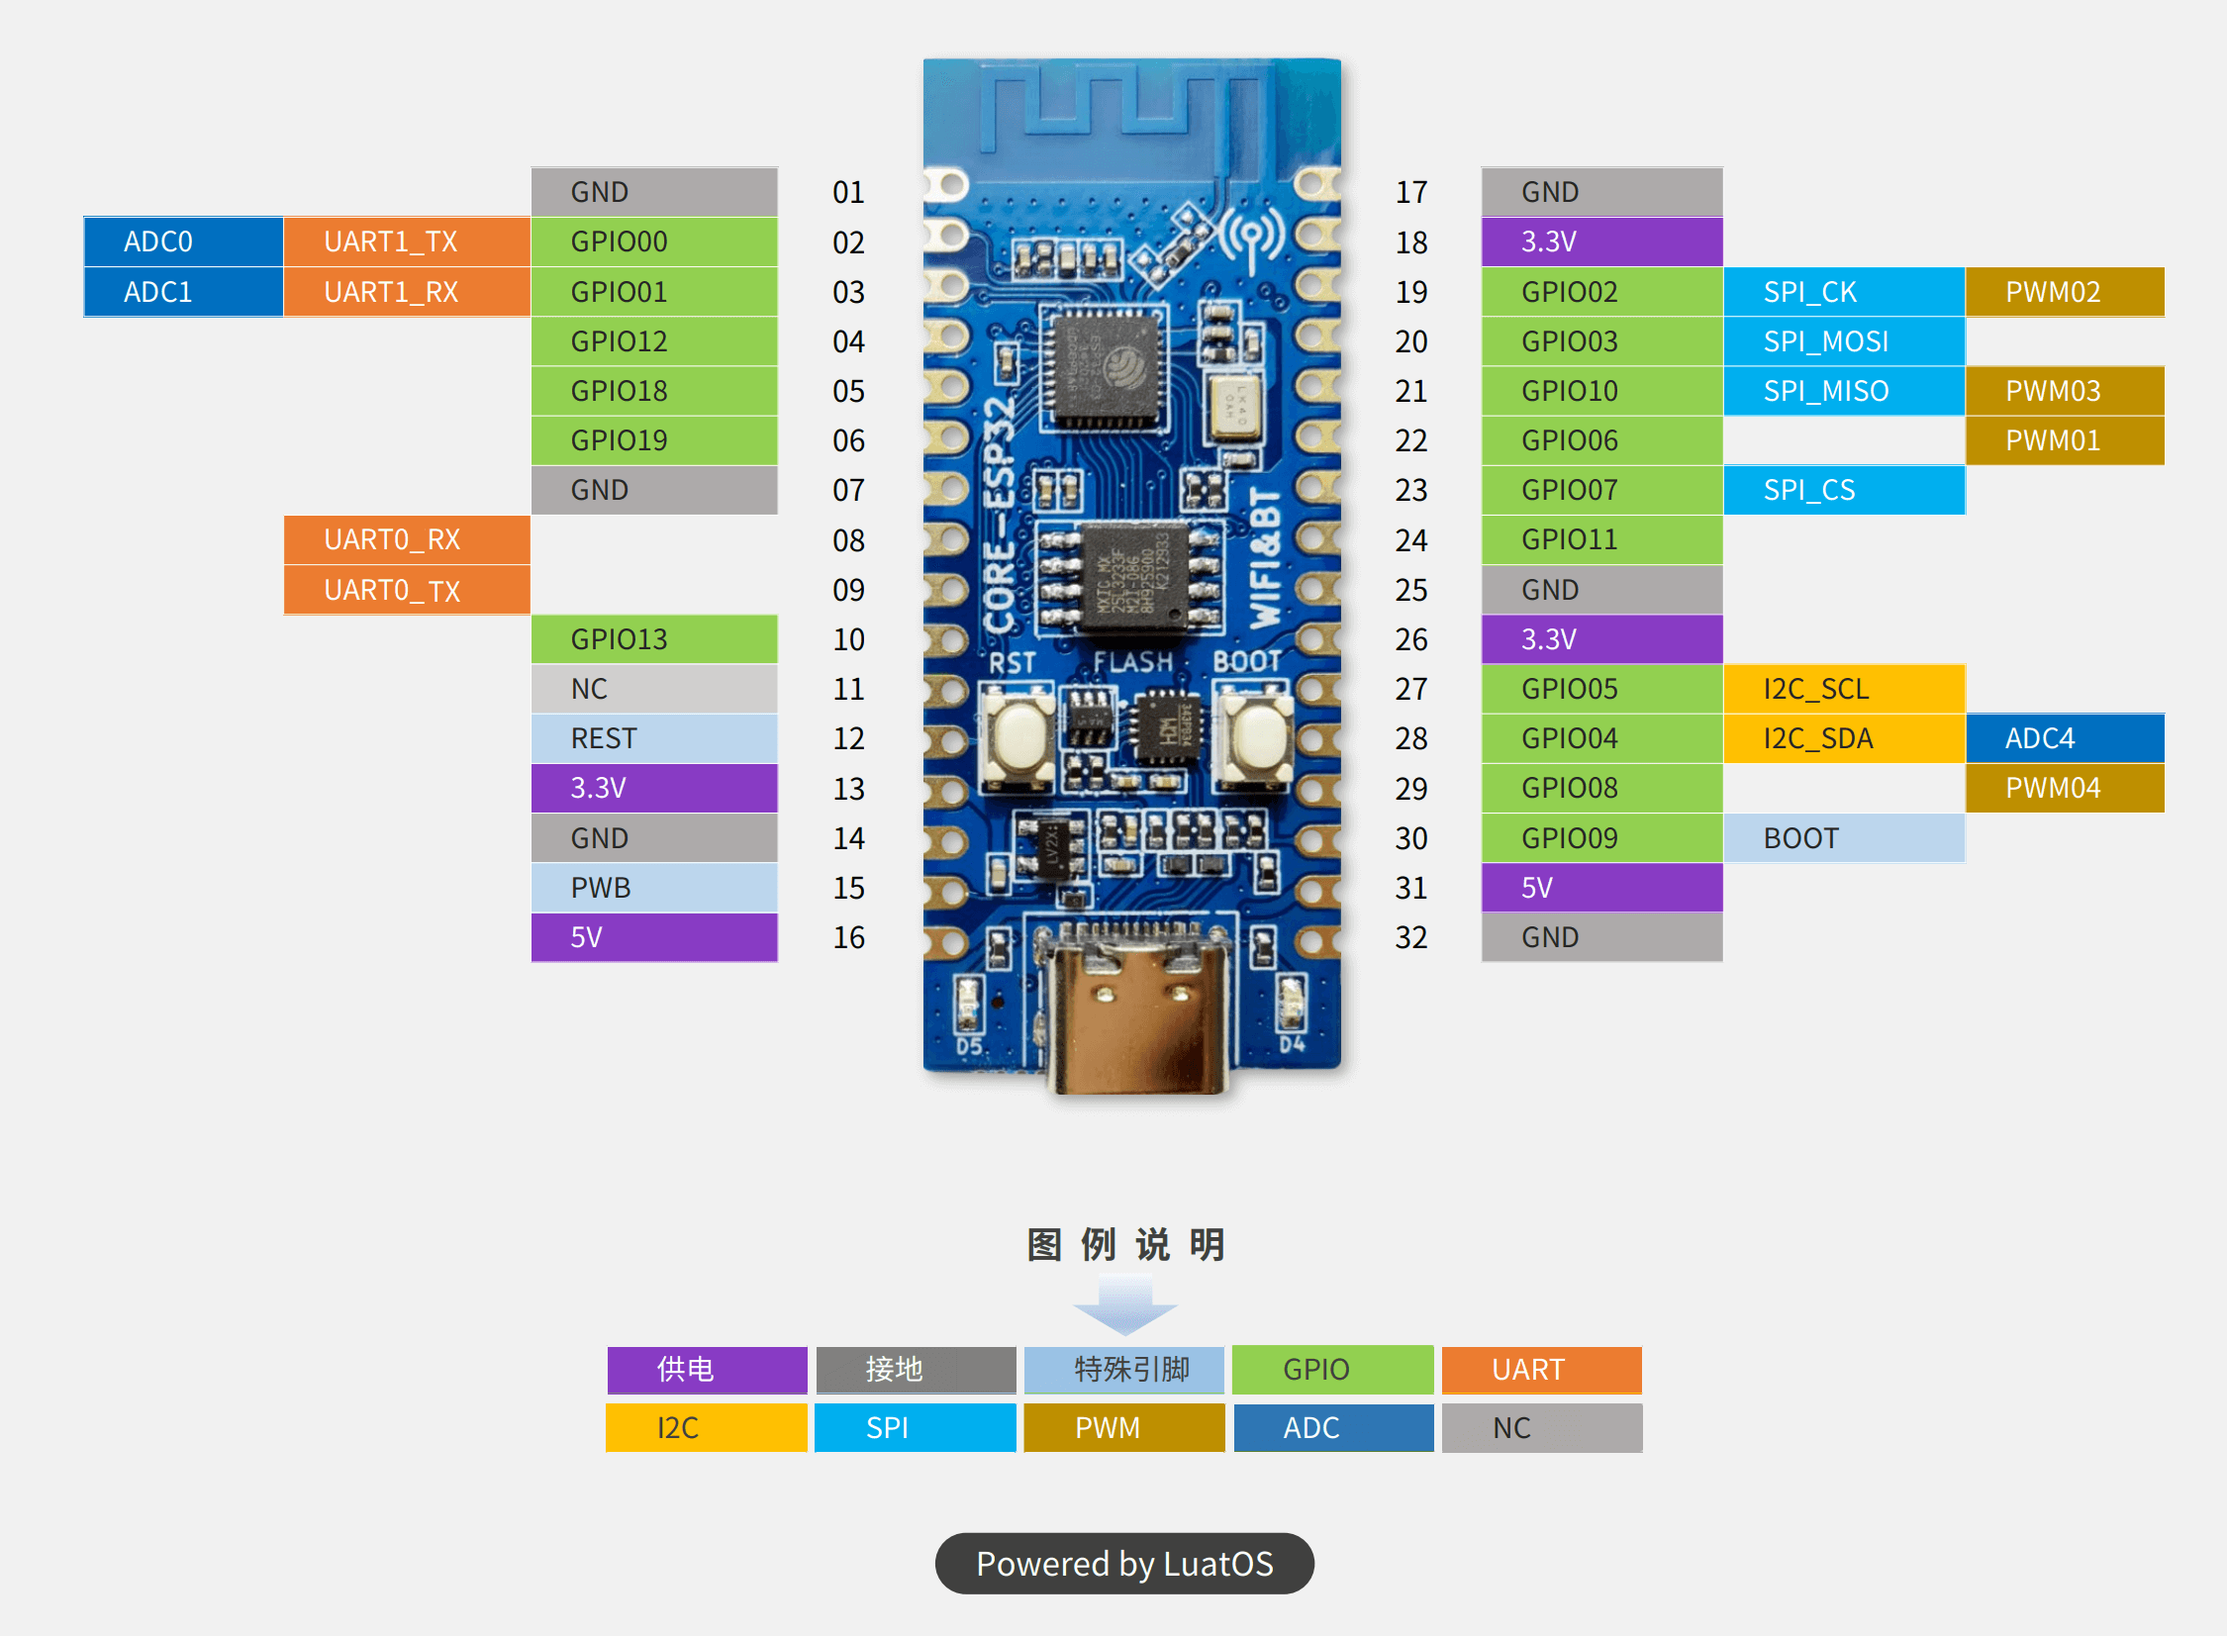
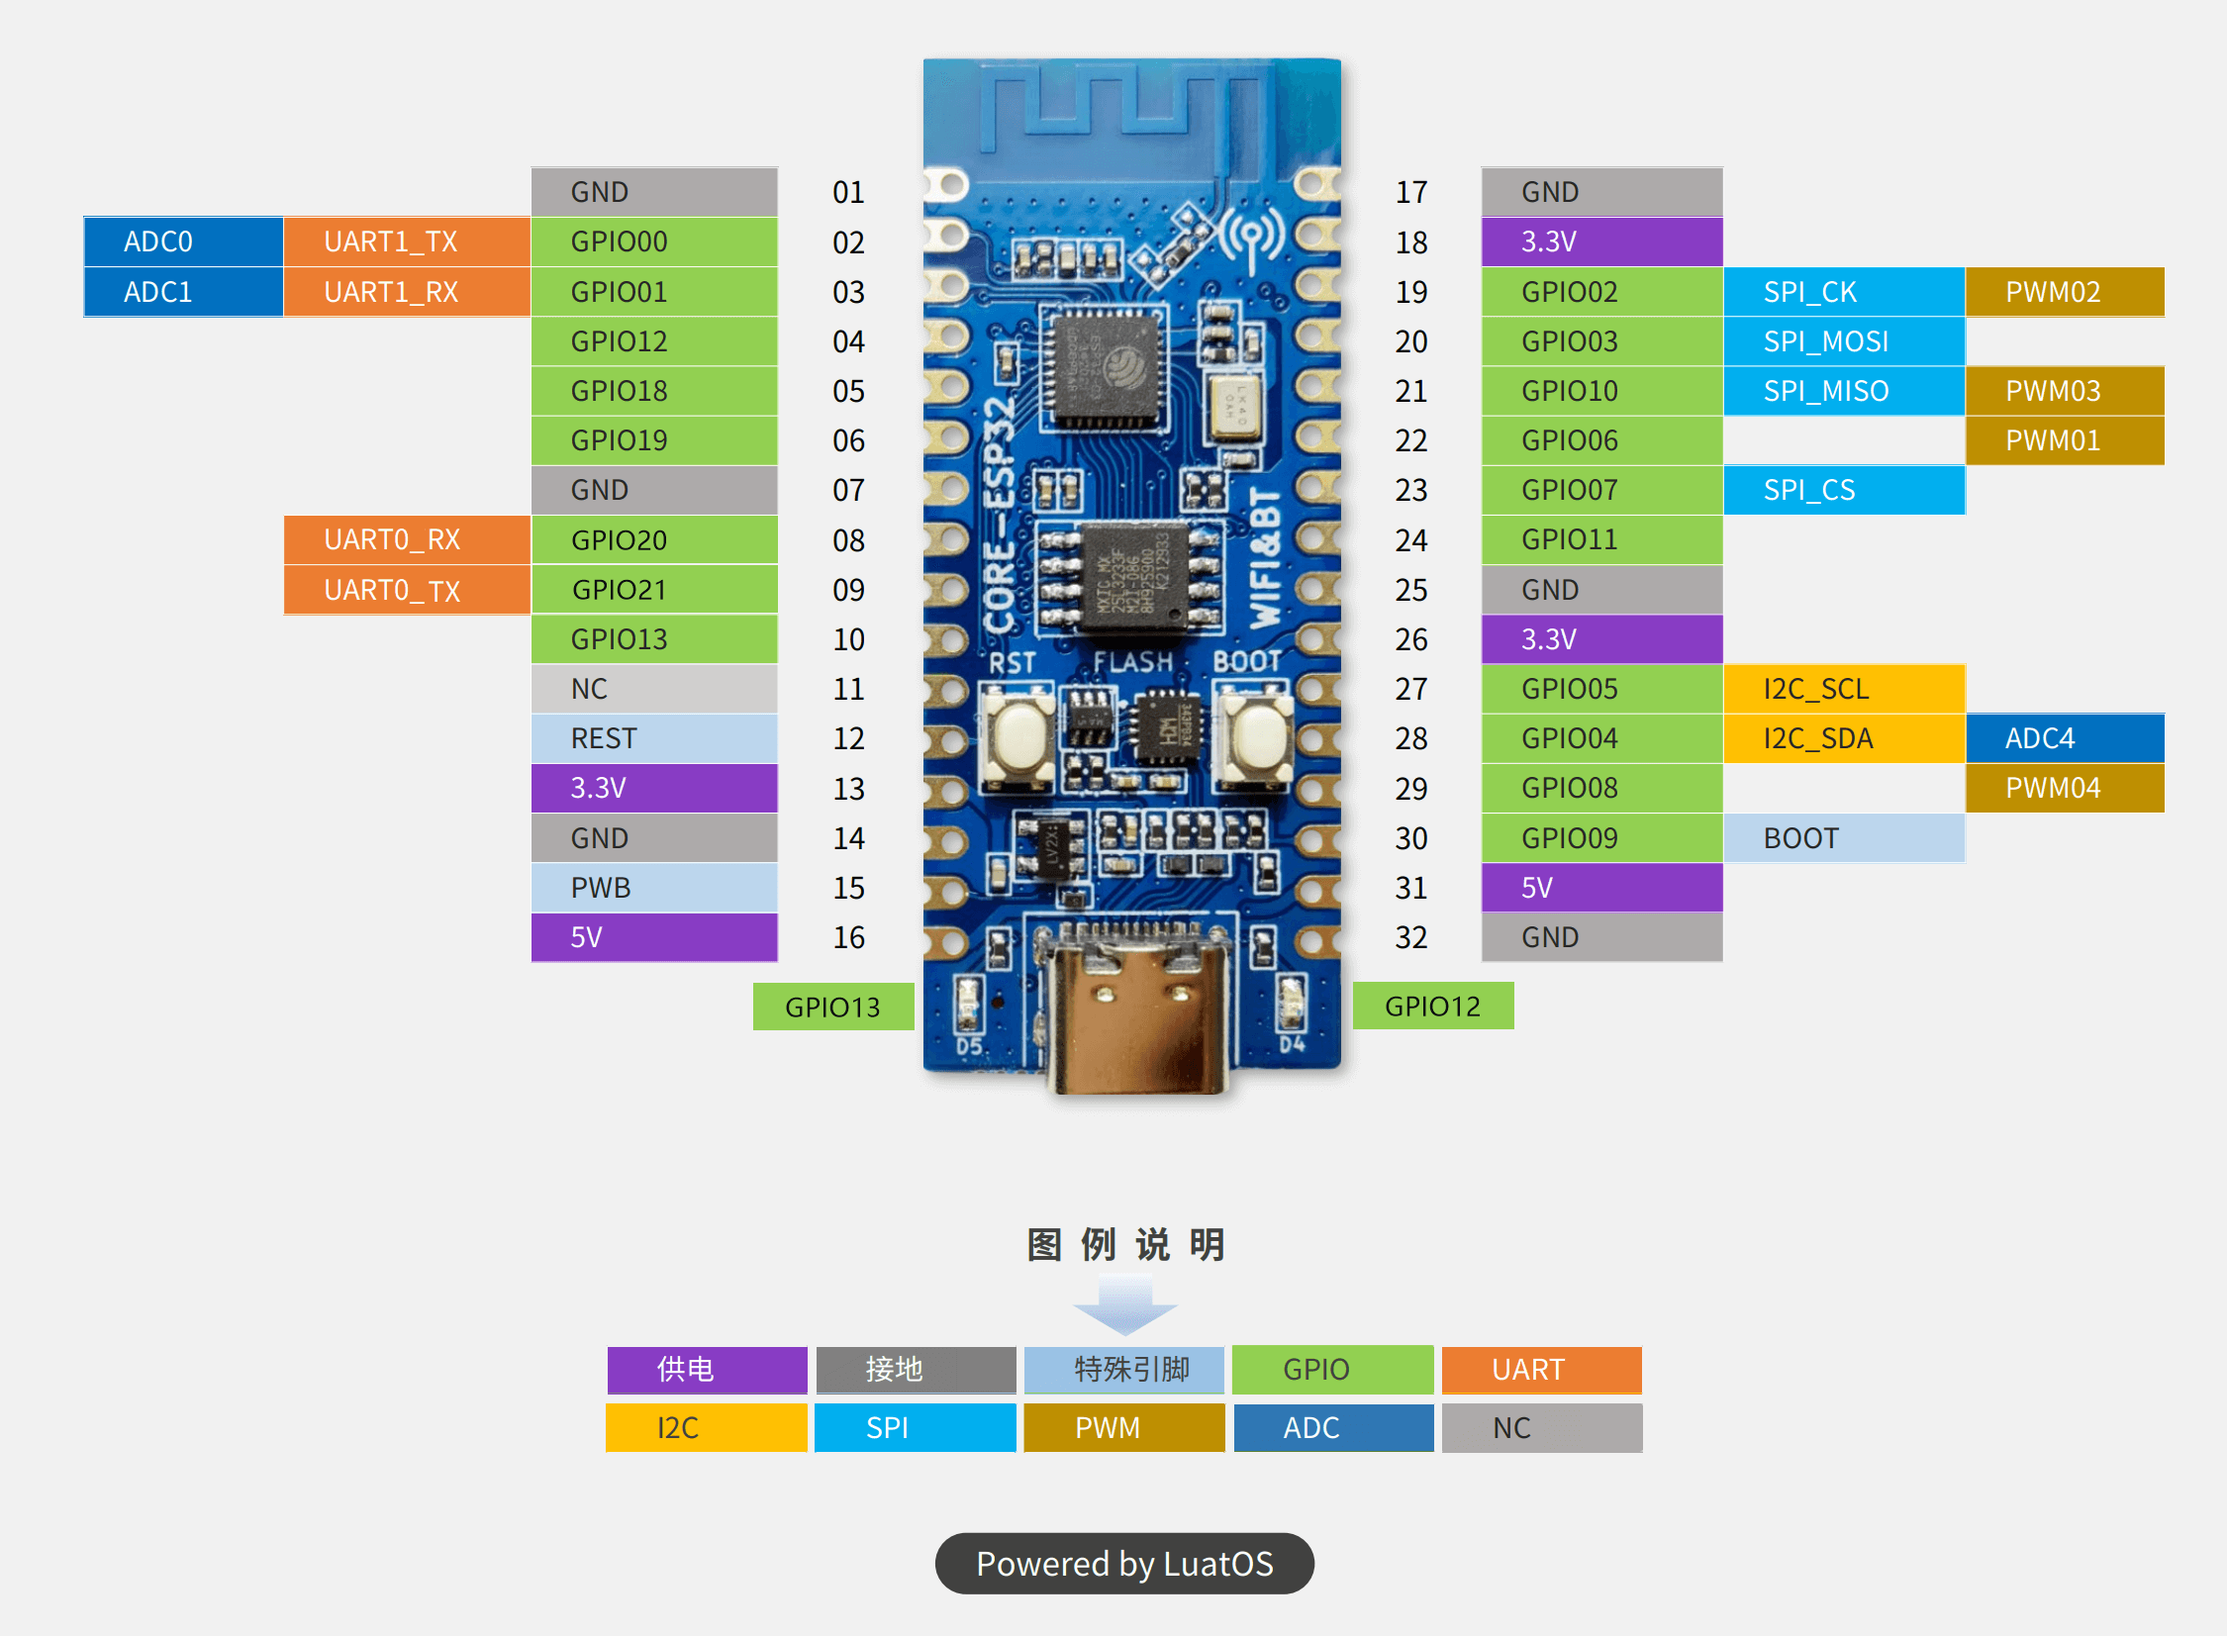
Update arduino-core-esp32c3

Changed region(s): [[0.2178, 0.3085, 0.3733, 0.4011], [0.5911, 0.5862, 0.6844, 0.6479], [0.3422, 0.5862, 0.4356, 0.6479]]

diff --git a/resources/app/board/common/blockly-core/arduino.js b/resources/app/board/common/blockly-core/arduino.js
@@ -267,29 +267,6 @@ Blockly.Generator.prototype.INDENT="  ";
         serial_HardwareSelect: [["Serial", "Serial"], ["Serial1", "Serial1"], ["Serial2", "Serial2"]],
         serial_select: [["Serial", "Serial"], ["SoftwareSerial", "mySerial"], ["SoftwareSerial1", "mySerial1"], ["SoftwareSerial2", "mySerial2"], ["SoftwareSerial3", "mySerial3"]],
         serial : 9600
-    },
-    arduino_esp32c3: {
-        description: "esp32s2_Arduino",
-        digital: [["0","0"],["1","1"],["2","2"],["3","3"],["4","4"],["5","5"],["6","6"],["7","7"],["8","8"],["9","9"],["10","10"],["18","18"],["19","19"],["20","20"],["21","21"]],
-        digitalWrite: [["0","0"],["1","1"],["2","2"],["3","3"],["4","4"],["5","5"],["6","6"],["7","7"],["8","8"],["9","9"],["10","10"],["18","18"],["19","19"],["20","20"],["21","21"]],
-        interrupt: [["0","0"],["1","1"],["2","2"],["3","3"],["4","4"],["5","5"],["6","6"],["7","7"],["8","8"],["9","9"],["10","10"],["18","18"],["19","19"],["20","20"],["21","21"]],
-        pwm: [["0","0"],["1","1"],["2","2"],["3","3"],["4","4"],["5","5"],["6","6"],["7","7"],["8","8"],["9","9"],["10","10"],["18","18"],["19","19"],["20","20"],["21","21"]],
-        analog: [["0","0"],["1","1"],["2","2"],["3","3"]],
-        tx: [["0", "0"], ["2", "2"], ["4", "4"], ["5", "5"], ["12", "12"], ["13", "13"], ["14", "14"], ["15", "15"], ["16", "16"], ["17", "17"], ["18", "18"], ["19", "19"], ["20", "20"], ["21", "21"], ["22", "22"], ["23", "23"], ["25", "25"], ["26", "26"], ["27", "27"], ["31", "31"]],
-        dac: [["17", "17"], ["18", "18"]],
-        SDA:[["19","19"]],
-        SCL:[["18","18"]],
-        MOSI:[["41","41"]],
-        MISO:[["40","40"]],
-        SCK:[["39","39"]],
-        TONE_NOTE:[["NOTE_C","NOTE_C"],["NOTE_Cs","NOTE_Cs"],["NOTE_D","NOTE_D"],["NOTE_Eb","NOTE_Eb"],["NOTE_E","NOTE_E"],["NOTE_F","NOTE_F"],["NOTE_Fs","NOTE_Fs"],["NOTE_G","NOTE_G"],["NOTE_Gs","NOTE_Gs"],["NOTE_A","NOTE_A"],["NOTE_Bb","NOTE_Bb"],["NOTE_B","NOTE_B"],["NOTE_MAX","NOTE_MAX"]],
-        OCTAVE:[["0", "0"],["1", "1"],["2", "2"],["3", "3"],["4", "4"],["5", "5"],["6", "6"],["7", "7"]],
-        CHANNEL:[["0", "0"],["1", "1"],["2", "2"],["3", "3"],["4", "4"],["5", "5"],["6", "6"],["7", "7"],["8", "8"],["9", "9"],["10", "10"],["11", "11"],["12", "12"],["13", "13"],["14", "14"],["15", "15"]],
-        PWM_RESOLUTION:[["8", "8"],["9", "9"],["10", "10"],["11", "11"],["12", "12"],["13", "13"],["14", "14"],["15", "15"],["16", "16"],["17", "17"],["18", "18"],["19", "19"],["20", "20"]],
-        touch: [["1","1"],["2","2"],["3","3"],["4","4"],["5","5"],["6","6"],["7","7"],["8","8"],["9","9"],["10","10"],["11","11"],["12","12"],["13","13"],["14","14"]],
-        serial_HardwareSelect: [["Serial", "Serial"], ["Serial1", "Serial1"], ["Serial2", "Serial2"]],
-        serial_select: [["Serial", "Serial"], ["SoftwareSerial", "mySerial"], ["SoftwareSerial1", "mySerial1"], ["SoftwareSerial2", "mySerial2"], ["SoftwareSerial3", "mySerial3"]],
-        serial : 9600
     },  
     esp32_handbit: {
         description: "esp32_handbit",
@@ -385,6 +362,50 @@ Blockly.Generator.prototype.INDENT="  ";
         serial_select: [["Serial", "Serial"], ["Serial1", "Serial1"], ["Serial2", "Serial2"]],
         serial : 9600
     }
+};
+
+profile.arduino_esp32c3 = {
+    description: "esp32c3_Arduino",
+    digital: profile.generate([ '0-10', '18-21' ]),
+    digitalWrite: profile.generate([ '0-10', '18-21' ]),
+    interrupt: profile.generate([ '0-10', '18-21' ]),
+    pwm: profile.generate([ '0-10', '18-21' ]),
+    analog: profile.generate([ '0-3' ]),
+    tx: profile.generate([ '21' ]),
+    SDA: [["8","8"]],
+    SCL: [["9","9"]],
+    MOSI: [["6","6"]],
+    MISO: [["5","5"]],
+    SCK: [["4","4"]],
+    TONE_NOTE: [["NOTE_C","NOTE_C"],["NOTE_Cs","NOTE_Cs"],["NOTE_D","NOTE_D"],["NOTE_Eb","NOTE_Eb"],["NOTE_E","NOTE_E"],["NOTE_F","NOTE_F"],["NOTE_Fs","NOTE_Fs"],["NOTE_G","NOTE_G"],["NOTE_Gs","NOTE_Gs"],["NOTE_A","NOTE_A"],["NOTE_Bb","NOTE_Bb"],["NOTE_B","NOTE_B"],["NOTE_MAX","NOTE_MAX"]],
+    OCTAVE: profile.generate([ '0-7' ]),
+    CHANNEL: profile.generate([ '0-15' ]),
+    PWM_RESOLUTION: profile.generate([ '8-20' ]),
+    serial_HardwareSelect: [["Serial", "Serial"], ["Serial1", "Serial1"], ["Serial2", "Serial2"]],
+    serial_select: [["Serial", "Serial"], ["SoftwareSerial", "mySerial"], ["SoftwareSerial1", "mySerial1"], ["SoftwareSerial2", "mySerial2"], ["SoftwareSerial3", "mySerial3"]],
+    serial : 9600
+};
+
+profile.arduino_core_esp32c3 = {
+    description: "core_esp32c3_Arduino",
+    digital: profile.generate([ '0-10', '12-13', '18-21' ]),
+    digitalWrite: profile.generate([ '0-8', '10', '12-13', '18-21' ]),
+    interrupt: profile.generate([ '0-10', '12-13', '18-21' ]),
+    pwm: profile.generate([ '2', '6', '8', '10' ]),
+    analog: profile.generate([ '0-5' ]),
+    tx: profile.generate([ '21' ]),
+    SDA: [["8","8"]],
+    SCL: [["9","9"]],
+    MOSI: [["6","6"]],
+    MISO: [["5","5"]],
+    SCK: [["4","4"]],
+    TONE_NOTE: [["NOTE_C","NOTE_C"],["NOTE_Cs","NOTE_Cs"],["NOTE_D","NOTE_D"],["NOTE_Eb","NOTE_Eb"],["NOTE_E","NOTE_E"],["NOTE_F","NOTE_F"],["NOTE_Fs","NOTE_Fs"],["NOTE_G","NOTE_G"],["NOTE_Gs","NOTE_Gs"],["NOTE_A","NOTE_A"],["NOTE_Bb","NOTE_Bb"],["NOTE_B","NOTE_B"],["NOTE_MAX","NOTE_MAX"]],
+    OCTAVE: profile.generate([ '0-7' ]),
+    CHANNEL: profile.generate([ '0-15' ]),
+    PWM_RESOLUTION: profile.generate([ '8-20' ]),
+    serial_HardwareSelect: [["Serial", "Serial"], ["Serial1", "Serial1"], ["Serial2", "Serial2"]],
+    serial_select: [["Serial", "Serial"], ["SoftwareSerial", "mySerial"], ["SoftwareSerial1", "mySerial1"], ["SoftwareSerial2", "mySerial2"], ["SoftwareSerial3", "mySerial3"]],
+    serial : 9600
 };
 
 profile.arduino_esp32s3 = {
@@ -585,8 +606,10 @@ profile["arduino_esp32s2"];
 
 /* Arduino ESP32C3用管脚定义 */
 profile['ESP32C3 Dev Module'] =
-profile['CORE-ESP32-C3'] =
 profile["arduino_esp32c3"];
+
+profile['CORE-ESP32-C3'] =
+profile["arduino_core_esp32c3"];
 
 /* Arduino ESP32S3用管脚定义 */
 profile['ESP32S3 Dev Module'] =

diff --git a/resources/app/board/arduino_esp32c3/index.html b/resources/app/board/arduino_esp32c3/index.html
@@ -111,34 +111,11 @@
           <shadow type="pins_digital"></shadow>
         </value>
       </block>
-      <block type="inout_touchRead">
-        <value name="PIN">
-          <shadow type="pins_touch">
-          </shadow>
-        </value>
-      </block>
-      <block type="touchAttachInterrupt">
-        <value name="PIN">
-          <shadow type="pins_touch"></shadow>
-        </value>
-        <value name="threshold">
-          <shadow type="math_number">
-            <field name="NUM">20</field>
-          </shadow>
-        </value>
-      </block>
       <block type="ledcWrite">
         <value name="PIN">
           <shadow type="pins_pwm"></shadow>
         </value>
         <value name="NUM">
-          <shadow type="math_number">
-            <field name="NUM">0</field>
-          </shadow>
-        </value>
-      </block>
-      <block type="inout_esp32_dac">
-        <value name="value">
           <shadow type="math_number">
             <field name="NUM">0</field>
           </shadow>
@@ -158,12 +135,6 @@
           </shadow>
         </value>
       </block>
-      <block type="ESP32touchButton">
-        <value name="PIN">
-          <shadow type="pins_touch">
-          </shadow>
-        </value>
-      </block>
       <block type="controls_attachInterrupt">
         <value name="PIN">
           <shadow type="pins_interrupt"></shadow>
@@ -172,16 +143,6 @@
       <block type="controls_detachInterrupt">
         <value name="PIN">
           <shadow type="pins_interrupt"></shadow>
-        </value>
-      </block>
-      <block type="touchAttachInterrupt">
-        <value name="PIN">
-          <shadow type="pins_touch"></shadow>
-        </value>
-        <value name="threshold">
-          <shadow type="math_number">
-            <field name="NUM">20</field>
-          </shadow>
         </value>
       </block>
       <block type="inout_pulseIn">
